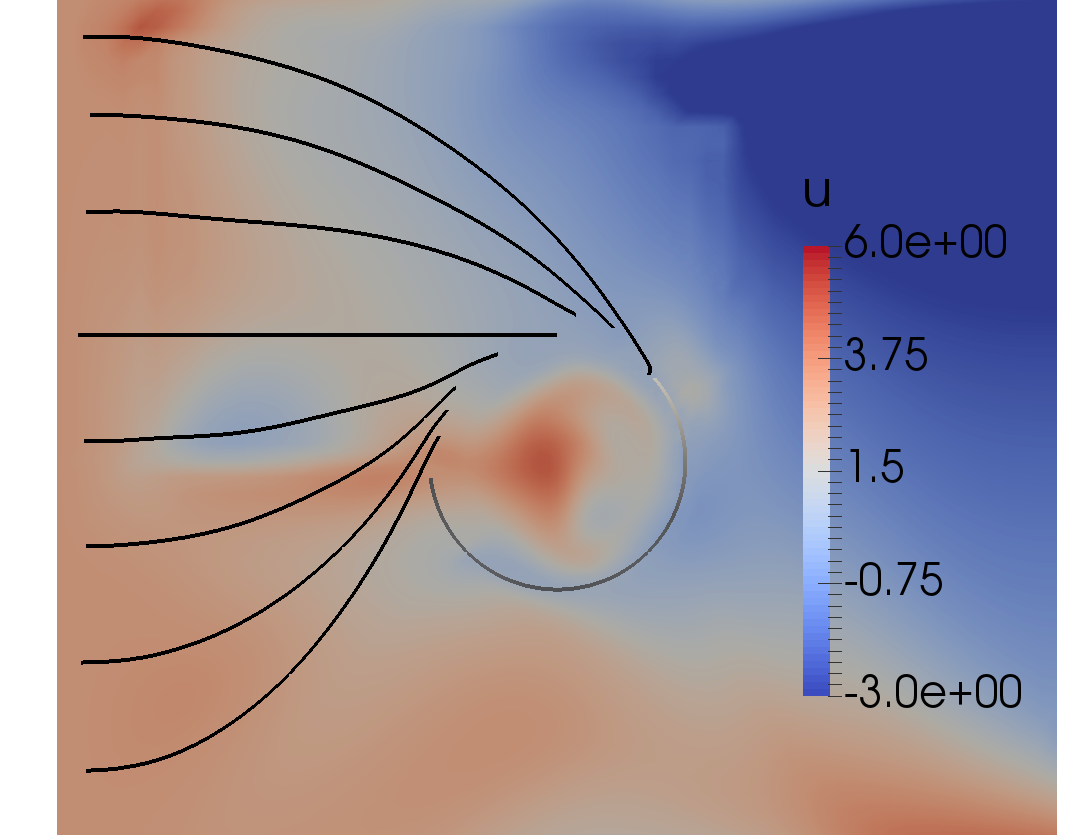
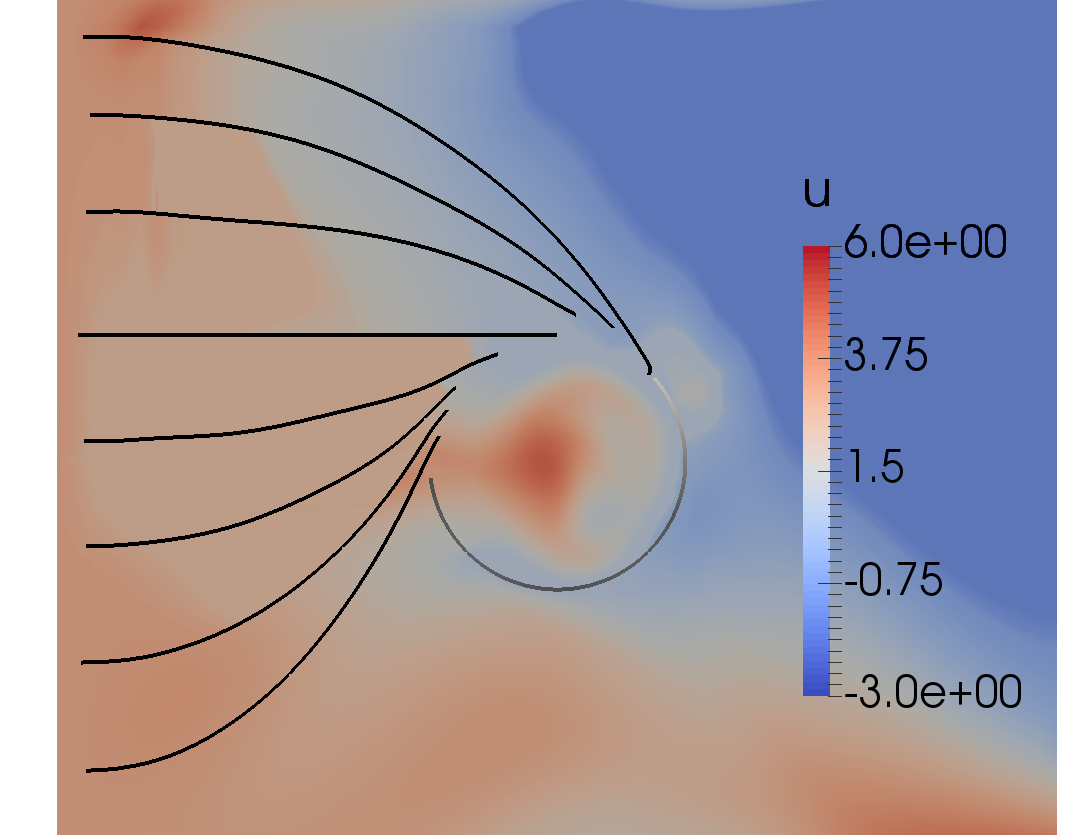
updating images, smoothing

Changed region(s): [[0.5536, 0.0, 0.9842, 0.5293], [0.1538, 0.4048, 0.4613, 0.5916]]

diff --git a/disputatio/dissertation/chapter-field.tex b/disputatio/dissertation/chapter-field.tex
@@ -773,13 +773,14 @@ Figure~\ref{fig:field_hor}.
   \hfill
   \includegraphics[width=.45\linewidth]{figs/w_field_hor}
   \\
-  \includegraphics[width=.45\linewidth]{figs/w_field_hor}
+  \includegraphics[width=.45\linewidth]{figs/T_field_hor}
   \hfill
   \includegraphics[width=.45\linewidth]{figs/w_field_hor}
   \label{fig:field_hor}
  \caption{Horizontal slices through the top of the vanes for the
  2016 Field Test. The top left is the streamwise velocity component
- (u), and the top right the vertical velocity, w.} 
+ (u), and the top right the vertical velocity, w. The bottom row shows
+ the same plane, but now for the temperature field and azimuthal velocity.} 
 \end{figure}
 
 
@@ -811,7 +812,7 @@ the August 2015 Field test.
 %
 %behaves like wind tunnel contraction
 
-Several potentially significant 
+Several potentially significant\todo{write me}
 
 Scenario Uncertainty!!!!!!!!!!!
 
